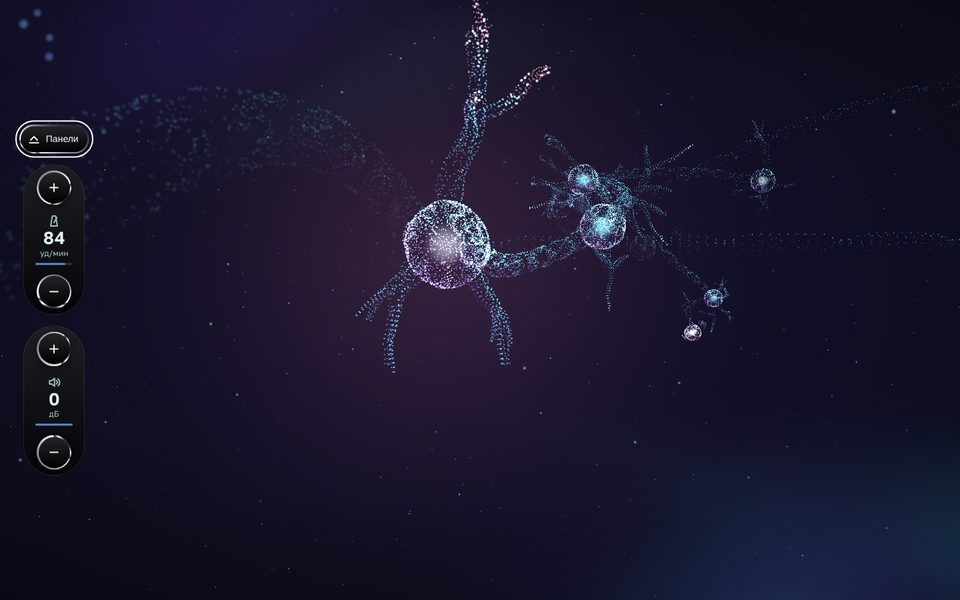
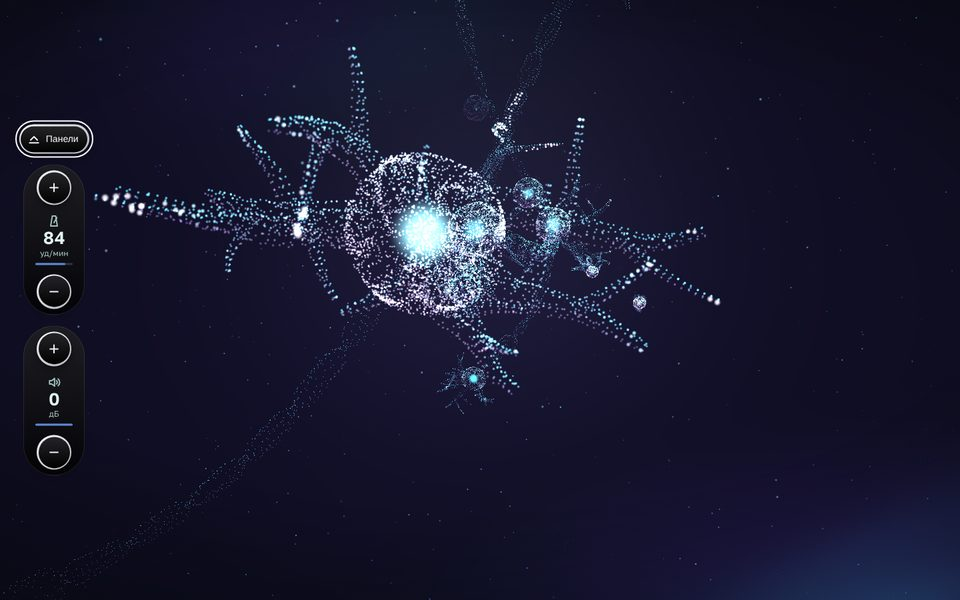
docs: README and screenshots for the single background and matte rim

diff --git a/README.md b/README.md
@@ -23,8 +23,7 @@ python3 -m http.server 8000
 | Параметр | Значения | По умолчанию |
 | --- | --- | --- |
 | `?view=` | `flight`, `stream`, `field`, `cascade`, `tunnel`, `wave` | `tunnel` |
-| `?bg=` | `membrane`, `cortex`, `brain`, `sync`, `plasma`, `dust` | `membrane` |
-| `?ui=` | `liquid`, `glass`, `metal`, `base` | `liquid` |
+| `?ui=` | `liquid`, `glass`, `base` | `liquid` |
 
 ## Как играть
 
@@ -35,7 +34,7 @@ python3 -m http.server 8000
 | Вариация слоя | три точки под кнопкой | `Q` `W` `E` `R` `T` `Y` |
 | Часть сета | кнопки сверху | `Z` `X` `C` `V` |
 | Сброс части | круг справа сверху | `0` |
-| Виды и фоны | кнопка под стартом |  |
+| Виды нейронов | кнопка под стартом |  |
 | Скрыть панели | кнопка под ней, вернуть: «Панели» слева | `H` |
 | Ракурс нейронов | тянуть по экрану, правая кнопка или Shift сдвигает, колесо приближает |  |
 | Ручки и движки | тянуть, двойной клик сбрасывает | стрелки, `PageUp`, `PageDown`, `Home`, `End` |
@@ -83,6 +82,8 @@ python3 -m http.server 8000
 | DJ-фильтр закрыт | меньше видимых связей, тусклее |
 | часть 1 → 4 | цвет уходит в ледяной, лавины короче, волны медленнее |
 
+Свет набирается плавно: вспышка растёт 0.14 с и тает секунду-полторы, камера идёт за ударом с инерцией. Удар читается как дыхание, а не как рывок: ход «зума» от бочки 0.11 градуса вместо 0.85, пиковая скорость камеры вдвое ниже прежней. Звук при этом не менялся.
+
 До звука нейроны спят: свет медленно дышит, движение стоит. Просыпаются, когда звук действительно пошёл, а не по клику.
 
 ## Виды нейронов
@@ -93,27 +94,16 @@ python3 -m http.server 8000
 | -------------------------------- | ---------------------------- |
 | ![Тоннель](docs/view-tunnel.jpg) | ![Волна](docs/view-wave.jpg) |
 
+|                              |     |
+| ---------------------------- | --- |
+| ![Поле](docs/view-field.jpg) |     |
+
 - `tunnel` и `wave`: цепь нейронов на изогнутом пути, импульс проходит пролёт за такт, камера летит за ним. Нейроны нарисованы приёмами двух сцен Three.js: кольца трубы (Tunnel) и пунктирная сетка с холмами шума (Flow Wave). У каждого слоя свой рисунок: бочка толкает тело и камеру, перкуссия искрит кончиками дендритов, бас светит аксоном, пэд красит тело и фон, мелодия бежит пакетом по дендриту на высоте ноты, фон зажигает пылинки.
 - `flight`, `stream`, `field`, `cascade`: шары из 3 600 точек, связанные линиями; нота зажигает шар своего слоя и шлёт сигналы соседям. В `cascade` сигнал зажигает соседа дальше, до четырёх шагов.
 
-## Фоны
+## Фон
 
-За ключевыми нейронами живёт фон из сотен и тысяч нейронов. У фона своя сцена и камера, поэтому он одинаковый во всех шести видах. Под каждым фоном звёзды.
-
-|                                   |                              |
-| --------------------------------- | ---------------------------- |
-| ![Мембрана](docs/bg-membrane.jpg) | ![Кора](docs/bg-cortex.jpg)  |
-| ![Мозг](docs/bg-brain.jpg)        | ![Синхрон](docs/bg-sync.jpg) |
-| ![Плазма](docs/bg-plasma.jpg)     |                              |
-
-- `membrane`, мембрана: сфера из 18 000 точек, по ней текут холмы шума, края светятся. Бочка пускает по оболочке кольцевую волну со стороны панорамы, бас раздувает сферу, пэд поднимает холмы и красит оболочку, треск фона вспыхивает отдельными точками. На оболочке сеть из 640 нейронов, по дугам бегут импульсы.
-- `cortex`, кора: ткань во весь экран, около тысячи нейронов в колонках и пустотах, как срез коры. Нота зажигает нейрон своего слоя, по связям бегут импульсы, у соседей загорается лавина. К концу сета лавины короче.
-- `brain`, мозг: два полушария по 850 нейронов с бороздами, таламус, ствол. Связи по коре, дуги мозолистого тела между полушариями, пучки от таламуса. Мозг медленно поворачивается туда и обратно, бочка его чуть раздувает.
-- `sync`, синхрон: поле из 2 380 нейронов-осцилляторов (модель Курамото). Соседи тянут фазы друг к другу, по полю сами бегут волны. Бочка сбрасывает фазы пятна, от него расходится кольцо; мелодия запускает волну по строке на высоте ноты; пэд усиливает связь. К четвёртой части поле дышит одной медленной волной, как во сне.
-- `plasma`, плазма: перенос компонента shader-background (21st.dev) с React на JS. Волнистые линии стали аксонами шести слоёв в цветах инструмента, бегущие кружки стали сигналами; эхо добавляет второй и третий сигнал на линию, панорама сдвигает гребень линий слоя.
-- `dust`, пыль: только космос, 5 000 мерцающих точек.
-
-Свечение каждого нейрона и каждой связи лежит в текстуре: JS пишет туда числа раз в кадр, шейдер читает их по номеру точки (`texelFetch`), поэтому десятки тысяч точек не пересчитываются в JS (`src/backgrounds/graph.js`).
+За нейронами космос: 1 600 звёзд на оболочке и 5 000 мелких пылинок вокруг камеры. У фона своя сцена и камера, поэтому он одинаковый во всех шести видах и не улетает вместе с камерой тоннеля. Нота слоя подсвечивает пылинки его цвета со стороны своей панорамы, к концу сета фон тускнеет вместе с сетом.
 
 ## Вид пульта
 
@@ -121,12 +111,11 @@ python3 -m http.server 8000
 | --------------------------------- | ------------------------- |
 | ![Жидкий металл](docs/liquid.jpg) | ![Стекло](docs/glass.jpg) |
 
-- `liquid` (по умолчанию): чёрное железо, металл на каждой ручке и кнопке, цвет слоя только в светодиодах: шкала ручки, нажатый шаг, лесенка уровня. Есть ручки панорамы и свинга, риски вокруг ручек, шкала у движков.
-- `glass`: светлые стеклянные плитки на тёмно-синем фоне, металлические кольца у кнопок; ручки те же.
-- `metal`: металл только на главных кнопках.
-- `base`: без металла, три ручки на слой.
+- `liquid` (по умолчанию): чёрное железо, матовая обводка у каждой ручки и кнопки, цвет слоя только в светодиодах: шкала ручки, нажатый шаг, лесенка уровня. Есть ручки панорамы и свинга, риски вокруг ручек, шкала у движков.
+- `glass`: светлые стеклянные плитки на тёмно-синем фоне, та же обводка у кнопок; ручки те же.
+- `base`: без обводки, три ручки на слой.
 
-Металл стоит, без переливания. Шейдер liquid metal из [@paper-design/shaders](https://github.com/paper-design/shaders) (Apache-2.0) по компоненту liquid-metal-button (21st.dev). В `liquid` и `glass` весь металл рисует один WebGL-контекст (`src/liquid.js`): браузер держит около 16 контекстов, по контексту на кнопку не выйдет.
+Обводка: линейный градиент от белого `#f5f5f7` к светло-серому `#aeb2ba`, один мягкий переход по диагонали. Хрома, бликов и тёмных полос нет; объём даёт тонкая светлая кромка сверху и мягкая тень снизу. Поверх обводки лежит грань элемента (`::after` с отступом в толщину обводки), поэтому толщина одинаковая у круглых кнопок, ручек, капсул и ручек движков (`styles/themes/Skin.css`).
 
 ## Устройство
 
@@ -138,18 +127,15 @@ src/
   controls.js     ручка, движок, кнопки, растр, переключатели
   icons.js        SVG-значки
   main.js         точка входа: связывает звук, пульт и картинку
-  metal.js        металл на главных кнопках
-  liquid.js       металл на всех элементах одним контекстом
   visuals.js      рендерер: подложка, фон, вид; сон и пробуждение
   views/          виды нейронов: swarm.js (шары), chain.js, tunnel.js,
                   wave.js, skeleton.js (цепь), atmosphere.js, spikes.js
-  backgrounds/    фоны: index.js, hearing.js (звук для фонов), graph.js
-                  (сеть и лавины), membrane.js, cortex.js, brain.js,
-                  sync.js, plasma.js, dust.js, common.js
+  backgrounds/    фон: index.js, hearing.js (звук для фона),
+                  dust.js (звёзды и пыль), common.js
 styles/
   reset.css, basics.css   сброс, токены цвета и размеров, сетка
   components/             по файлу на блок пульта
-  themes/                 Metal.css, Skin.css (общее для металла),
+  themes/                 Skin.css (обводка и общие детали),
                           Glass.css, Liquid.css
 docs/                     скриншоты для README
 ```
@@ -163,11 +149,11 @@ docs/                     скриншоты для README
 
 ## Проверка
 
-Проверено в headless Chrome (Playwright, программный рендер): ошибок в консоли нет; каждый слой звучит отдельно; клавиши, сброс и части работают; часть 4 стоит на оси сброса и кольца на 1000, 1280, 1440 и 1920 px; каждый из шести фонов отвечает на ноту каждого слоя, панораму, тон, эхо и Mute (замер по состоянию сцены). Не проверено: частота кадров на видеокарте, звук на слух, Safari.
+Проверено в headless Chrome (Playwright, программный рендер): ошибок в консоли нет; каждый слой звучит отдельно; клавиши, сброс и части работают; часть 4 стоит на оси сброса и кольца на 1000, 1280, 1440 и 1920 px; обводка стоит на всех нужных элементах и остатков шейдера металла нет; движение камеры от ударов измерено до и после смягчения. Не проверено: частота кадров на видеокарте, звук на слух, Safari.
 
 ## Стек
 
-HTML, CSS, JavaScript (ES-модули), [Tone.js](https://tonejs.github.io/) 15.1.22, [Three.js](https://threejs.org/) 0.160.0, [@paper-design/shaders](https://www.npmjs.com/package/@paper-design/shaders) 0.0.81, Prettier. Шрифт Golos Text.
+HTML, CSS, JavaScript (ES-модули), [Tone.js](https://tonejs.github.io/) 15.1.22, [Three.js](https://threejs.org/) 0.160.0, Prettier. Шрифт Golos Text.
 
 ## Лицензия
 
